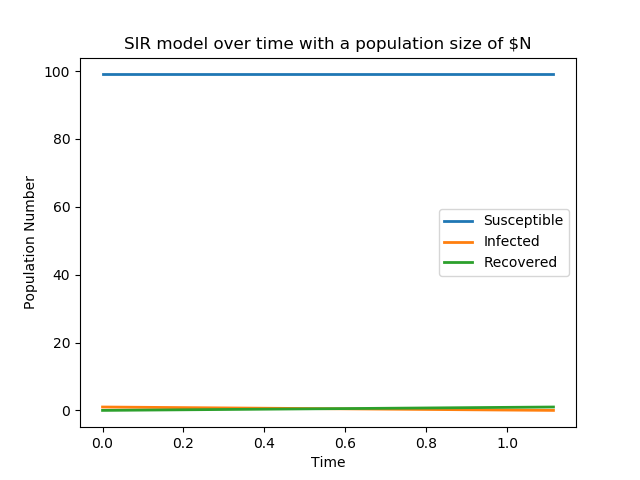
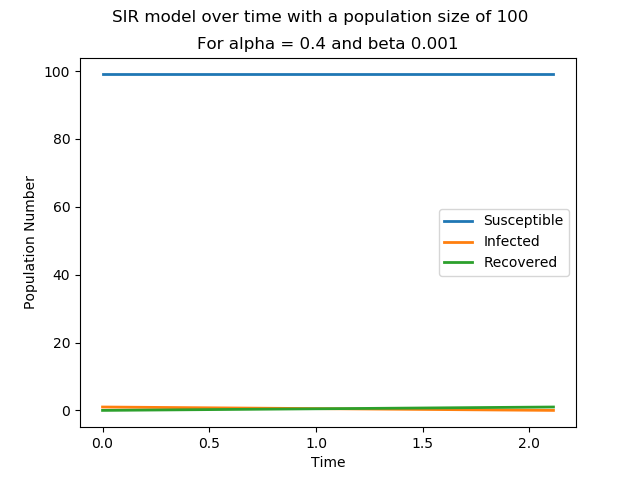
Python Code tidied
Separated into multiple files which describe their own contents

diff --git a/sirModels.py b/sirModels.py
@@ -1,10 +1,9 @@
 '''
 This is a code base for a simple SIR simulation using the Gillespie Direct
-Method
+Method. Contains the simulation function.
 
 Author: Joel Trent and Josh Looker
 '''
-from matplotlib import pyplot as plt
 import numpy as np
 from random import random
 
@@ -18,7 +17,7 @@ def gillespieDirect2Processes(t_max, S_total, I_total, R_total, alpha, beta, N, 
     R_total : Num people recovered
     N       : Population size
     alpha   : probability of infected person recovering [0,1]
-    gamma   : probability of susceptible person being infected [0,1]
+    beta    : probability of susceptible person being infected [0,1]
 
     Outputs
     t       : Array of times at which events have occured
@@ -26,7 +25,6 @@ def gillespieDirect2Processes(t_max, S_total, I_total, R_total, alpha, beta, N, 
     I       : Array of Num people infected at each t
     R       : Array of Num people recovered at each t
     '''
-
 
     # initialise outputs
     t = [t_init]
@@ -65,57 +63,3 @@ def gillespieDirect2Processes(t_max, S_total, I_total, R_total, alpha, beta, N, 
         R.append(R_total)
 
     return t, S, I , R
-
-
-def plots(t, SIR, N, Display=True, save=True):
-    '''
-    Inputs
-    t       : Array of times at which events have occured
-    SIR     : Array of arrays of Num people susceptible, infected and recovered at
-                each t
-    N       : Population size
-
-    Outputs
-    png     : plot of SIR model over time [by default]
-    '''
-    fig = plt.figure()
-    plt.plot(t, SIR[0], label="Susceptible", lw = 2, figure=fig)
-    plt.plot(t, SIR[1], label="Infected", lw = 2, figure=fig)
-    plt.plot(t, SIR[2], label="Recovered", lw=2, figure=fig)
-
-    plt.xlabel("Time")
-    plt.ylabel("Population Number")
-    plt.title("SIR model over time with a population size of $N")
-    plt.legend()
-
-    if Display:
-        # required to display graph on plots.
-        fig.show()
-
-    if save:
-        # Save graph as pngW
-        fig.savefig(f"pythonGraphs/SIR_Model_Pop_{N}")
-
-#-----------------------------------------------------------------------------
-# testing the gillespieDirect2Processes function
-
-# Get same thing each time
-
-
-# initialise variables
-N = np.array([5, 10, 50, 100,1000,10000])
-
-S_total = N - 1
-I_total = np.ones(len(N))
-R_total = np.zeros(len(N))
-
-t_max = 200
-alpha = 0.4
-beta = 0.001
-
-# iterate through populations
-for i in range(len(N)):
-    t, S, I, R = gillespieDirect2Processes(t_max, S_total[i], I_total[i],
-        R_total[i], alpha, beta, N)
-
-    plots(t, [S, I, R], N[i],Display=False)

diff --git a/plots.py b/plots.py
@@ -1,0 +1,40 @@
+'''
+This is a code base for the plotting function of a simple SIR simulation using the Gillespie Direct
+Method
+
+Author: Joel Trent and Josh Looker
+'''
+from matplotlib import pyplot as plt
+
+def plot(t, SIR, N, alpha, beta, outputFileName="plot", Display=True, save=True):
+    '''
+    Inputs
+    t              : Array of times at which events have occured
+    SIR            : Array of arrays of Num people susceptible, infected and recovered at
+                     each t
+    N              : Population size
+    alpha          : probability of infected person recovering [0,1]
+    beta           : probability of susceptible person being infected [0,1]
+    outputFileName : the name/location to save the plot as/in
+
+    Outputs
+    png            : plot of SIR model over time [by default]
+    '''
+    fig = plt.figure()
+    plt.plot(t, SIR[0], label="Susceptible", lw = 2, figure=fig)
+    plt.plot(t, SIR[1], label="Infected", lw = 2, figure=fig)
+    plt.plot(t, SIR[2], label="Recovered", lw=2, figure=fig)
+
+    plt.xlabel("Time")
+    plt.ylabel("Population Number")
+    plt.suptitle(f"SIR model over time with a population size of {N}")
+    plt.title(f"For alpha = {alpha} and beta {beta}")
+    plt.legend()
+
+    if Display:
+        # required to display graph on plots.
+        fig.show()
+
+    if save:
+        # Save graph as pngW
+        fig.savefig(outputFileName)

diff --git a/sirMain.py b/sirMain.py
@@ -1,0 +1,40 @@
+'''
+This is a code base for the main function of a simple SIR simulation using the Gillespie Direct
+Method
+
+Author: Joel Trent and Josh Looker
+'''
+
+from sirModels import gillespieDirect2Processes
+from plots import plot
+import numpy as np
+import random
+
+def main():
+    # testing the gillespieDirect2Processes function
+
+    # Get same thing each time
+    random.seed(1)
+
+    # initialise variables
+    N = np.array([5, 10, 50, 100,1000,10000])
+
+    S_total = N - 1
+    I_total = np.ones(len(N))
+    R_total = np.zeros(len(N))
+
+    t_max = 200
+    alpha = 0.4
+    beta = 0.001
+
+    # iterate through populations
+    for i in range(len(N)):
+        t, S, I, R = gillespieDirect2Processes(t_max, S_total[i], I_total[i],
+            R_total[i], alpha, beta, N)
+
+        # plot and export the simulation
+        outputFileName = f"pythonGraphs/SIR_Model_Pop_{N[i]}"
+        plot(t, [S, I, R], N[i], alpha, beta, outputFileName, Display=False)
+
+if __name__=="__main__":
+    main()
